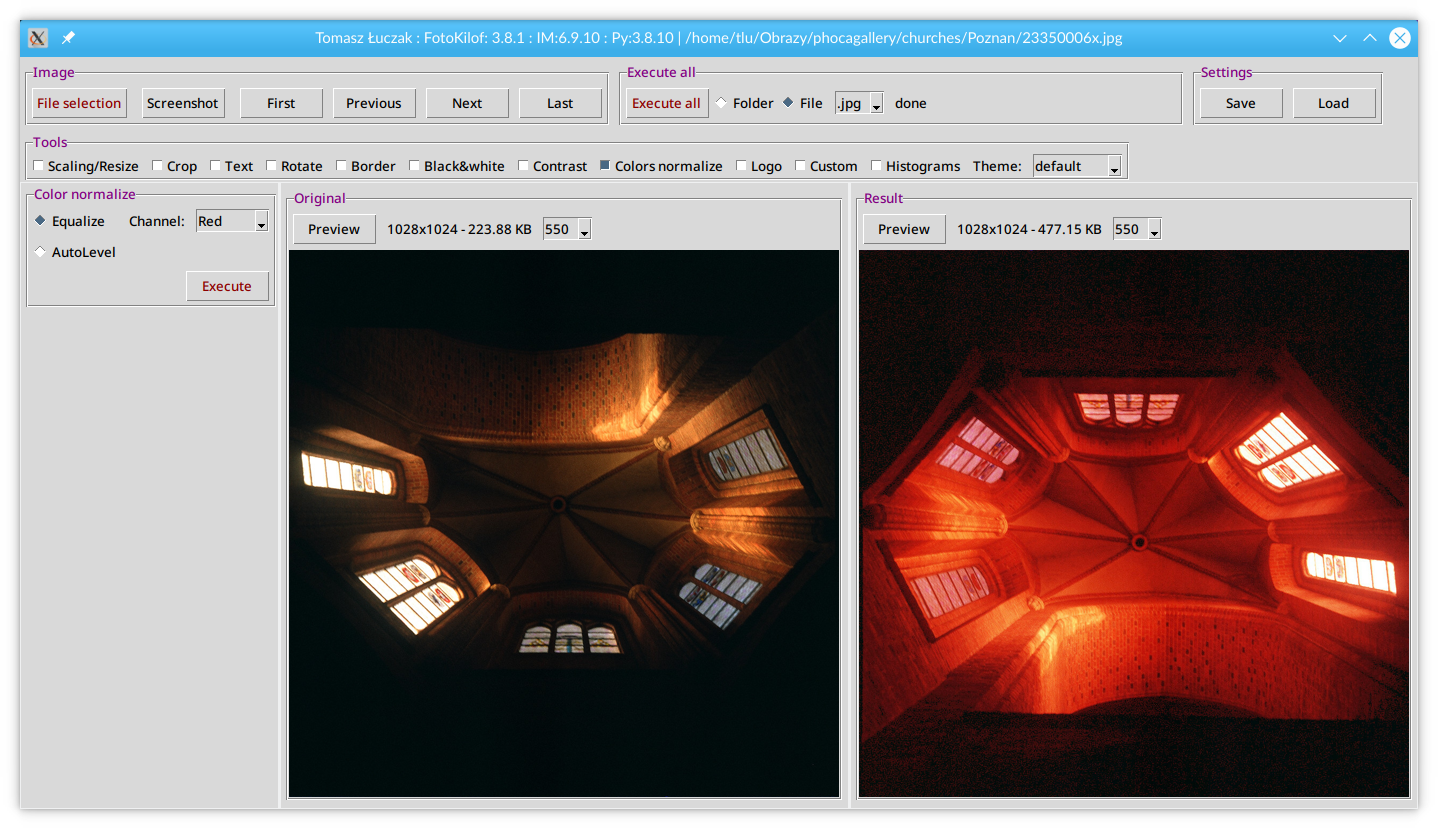
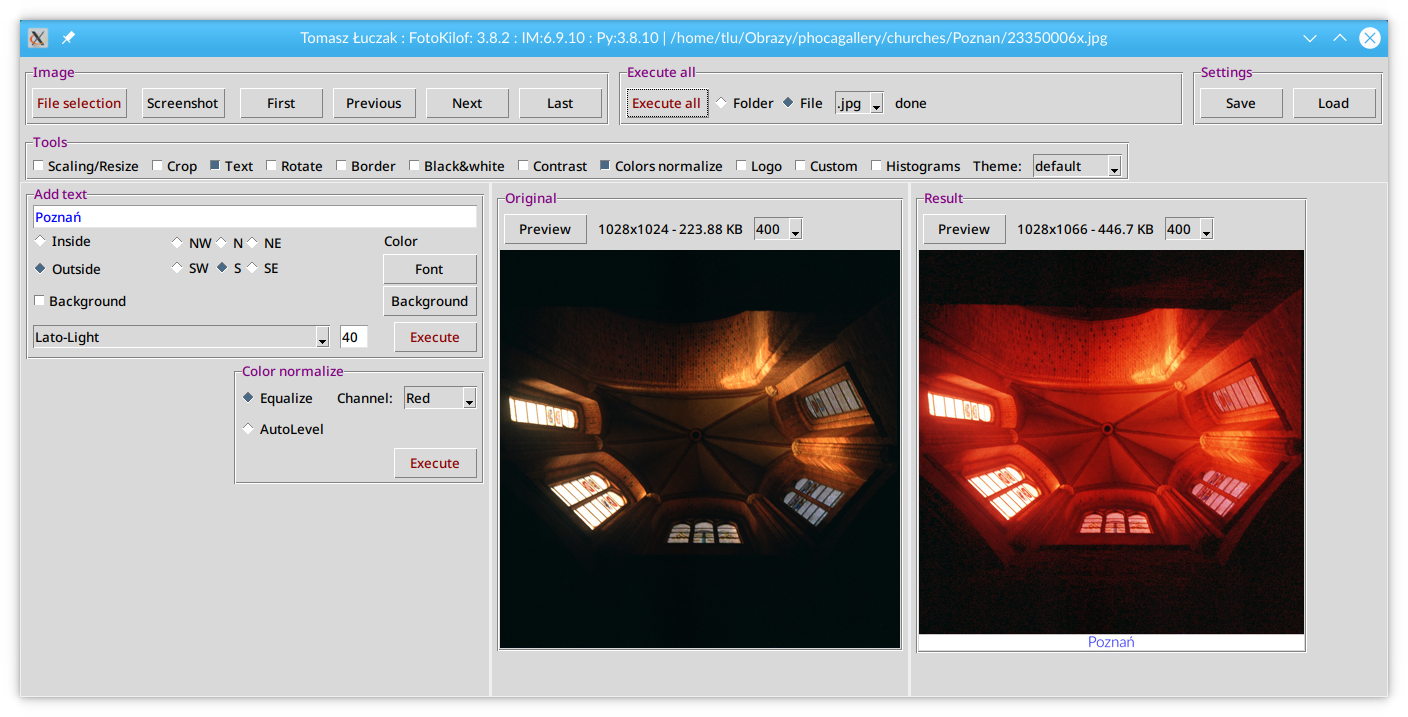
3.8.2

diff --git a/src/convert.py b/src/convert.py
@@ -123,8 +123,8 @@ def convert_text(entries):
         if entries['text_inout'] == 0:
             # inside
             outside = ""
-            if gravity(entries['gravitation']) == "0":
-                gravitation = ""
+            if entries['gravitation_onoff'] == 0:
+                gravitation = " "
             else:
                 gravitation = " -gravity " + gravity(entries['gravitation'])
             text = " -draw \"text " + entries['dx'] + "," + entries['dy'] \
@@ -135,13 +135,16 @@ def convert_text(entries):
                 box = " -box \"" + entries['box_color'] + "\""
         else:
             # outside
-            gravitations = gravity_outside(entries['gravitation'])
-            gravitation = " -gravity " + gravitations['horizontal']
+            gravitation = " -gravity " + gravity(entries['gravitation'])
             text = " label:\"" + entries['text'] + "\" "
-            if gravitations['vertical'] == "top":
+            # position
+            if entries['gravitation'] == "NW" or entries['gravitation'] == "N" or entries['gravitation'] == "NE":
+                # top
                 outside = "+swap -append "
             else:
+                # bottom
                 outside = "-append "
+            # background
             if entries['box'] == 0:
                 box = ""
             else:
@@ -305,39 +308,5 @@ def gravity(gravitation):
 
     return result
 
-
-def gravity_outside(gravitation):
-    """ translate gavitation name for adding text outside"""
-
-    dict_return = {}
-    if gravitation == "N":
-        dict_return['vertical'] = "top"
-        dict_return['horizontal'] = "Center"
-    if gravitation == "NW":
-        dict_return['vertical'] = "top"
-        dict_return['horizontal'] = "West"
-    if gravitation == "NE":
-        dict_return['vertical'] = "top"
-        dict_return['horizontal'] = "East"
-    if gravitation == "W":
-        dict_return['vertical'] = "top"
-        dict_return['horizontal'] = "West"
-    if gravitation == "C":
-        dict_return['vertical'] = "top"
-        dict_return['horizontal'] = "Center"
-    if gravitation == "E":
-        dict_return['vertical'] = "top"
-        dict_return['horizontal'] = "East"
-    if gravitation == "SW":
-        dict_return['vertical'] = "bottom"
-        dict_return['horizontal'] = "West"
-    if gravitation == "S":
-        dict_return['vertical'] = "bottom"
-        dict_return['horizontal'] = "Center"
-    if gravitation == "SE":
-        dict_return['vertical'] = "bottom"
-        dict_return['horizontal'] = "East"
-
-    return dict_return
 
 # EOF

diff --git a/src/fotokilof.py b/src/fotokilof.py
@@ -45,7 +45,7 @@ import os
 import platform
 import sys
 import tempfile
-from PIL import Image, ImageGrab
+from PIL import ImageGrab
 
 # my modules
 import convert
@@ -572,10 +572,8 @@ def convert_text_entries():
     dict_return['text'] = e_text.get()
     dict_return['dx'] = e_text_x.get()
     dict_return['dy'] = e_text_y.get()
-    if img_text_gravity_onoff.get():
-        dict_return['gravitation'] = img_text_gravity.get()
-    else:
-        dict_return['gravitation'] = "0"
+    dict_return['gravitation'] = img_text_gravity.get()
+    dict_return['gravitation_onoff'] = img_text_gravity_onoff.get()
     if mswindows.windows() == 1:
         dict_return['font'] = img_text_font_dict[img_text_font.get()]
     else:
@@ -2321,9 +2319,9 @@ if GM_or_IM is not None:
     l_border.configure(bg=img_border_color.get())
     if os.path.isfile(file_in_path.get()):
         root.title(window_title + file_in_path.get())
-        image_size =  magick.get_image_size(file_in_path.get())
-        file_in_width.set(image_size[0])
-        file_in_height.set(image_size[1])
+        image_dimension =  magick.get_image_size(file_in_path.get())
+        file_in_width.set(image_dimension[0])
+        file_in_height.set(image_dimension[1])
         crop_tool_hide_show()
     if img_logo_on.get() == 1:
         if os.path.isfile(file_logo_path.get()):

diff --git a/src/gui.py b/src/gui.py
@@ -35,6 +35,7 @@ def copy_to_clipboard(file_in):
     """
     Copy results into clipboard
     https://stackoverflow.com/questions/34322132/copy-image-to-clipboard
+    Copy to clipboard works for Windows only
     """
     if mswindows.windows() == 1:
         image = Image.open(file_in)
@@ -49,11 +50,10 @@ def copy_to_clipboard(file_in):
         win32clipboard.SetClipboardData(win32clipboard.CF_DIB, data)
         win32clipboard.CloseClipboard()
 
-     #Copy to clipboard works for Windows only
-
 
 def only_numbers(char):
     """  Validation entry widgets: only digits """
     return char.isdigit()
+
 
 # EOF

diff --git a/src/entries.py b/src/entries.py
@@ -30,15 +30,15 @@ module contains function for parsing GUI entries and INI entries:
 import re
 
 
-def parse_list(entry, range, default):
+def parse_list(entry, valid, default):
     """
     parsing entries
     entry - value to check
-    range - valid range
+    valid - valid range
     default - value if entry is invalid
     return - entry or default if entry is out of range
     """
-    if entry in range:
+    if entry in valid:
         result = entry
     else:
         result = default

diff --git a/src/version.py b/src/version.py
@@ -22,7 +22,7 @@ OUT OF OR IN CONNECTION WITH THE SOFTWARE OR THE USE OR OTHER DEALINGS IN
 THE SOFTWARE.
 """
 
-__version__ = "3.8.1"
+__version__ = "3.8.2"
 __author__ = "Tomasz Łuczak"
 __email__ = "tlu@team-tl.pl"
 __appname__ = "FotoKilof"

diff --git a/CHANGES.md b/CHANGES.md
@@ -3,6 +3,10 @@
 
 ## 2021
 
+3.8.2 bugfix and code clean for text gravity
+
+3.8.1 bugfix crop and text position calculation
+
 3.8.0 text tool: gravity on/off, point out position
 
 3.7.10 small improvements
